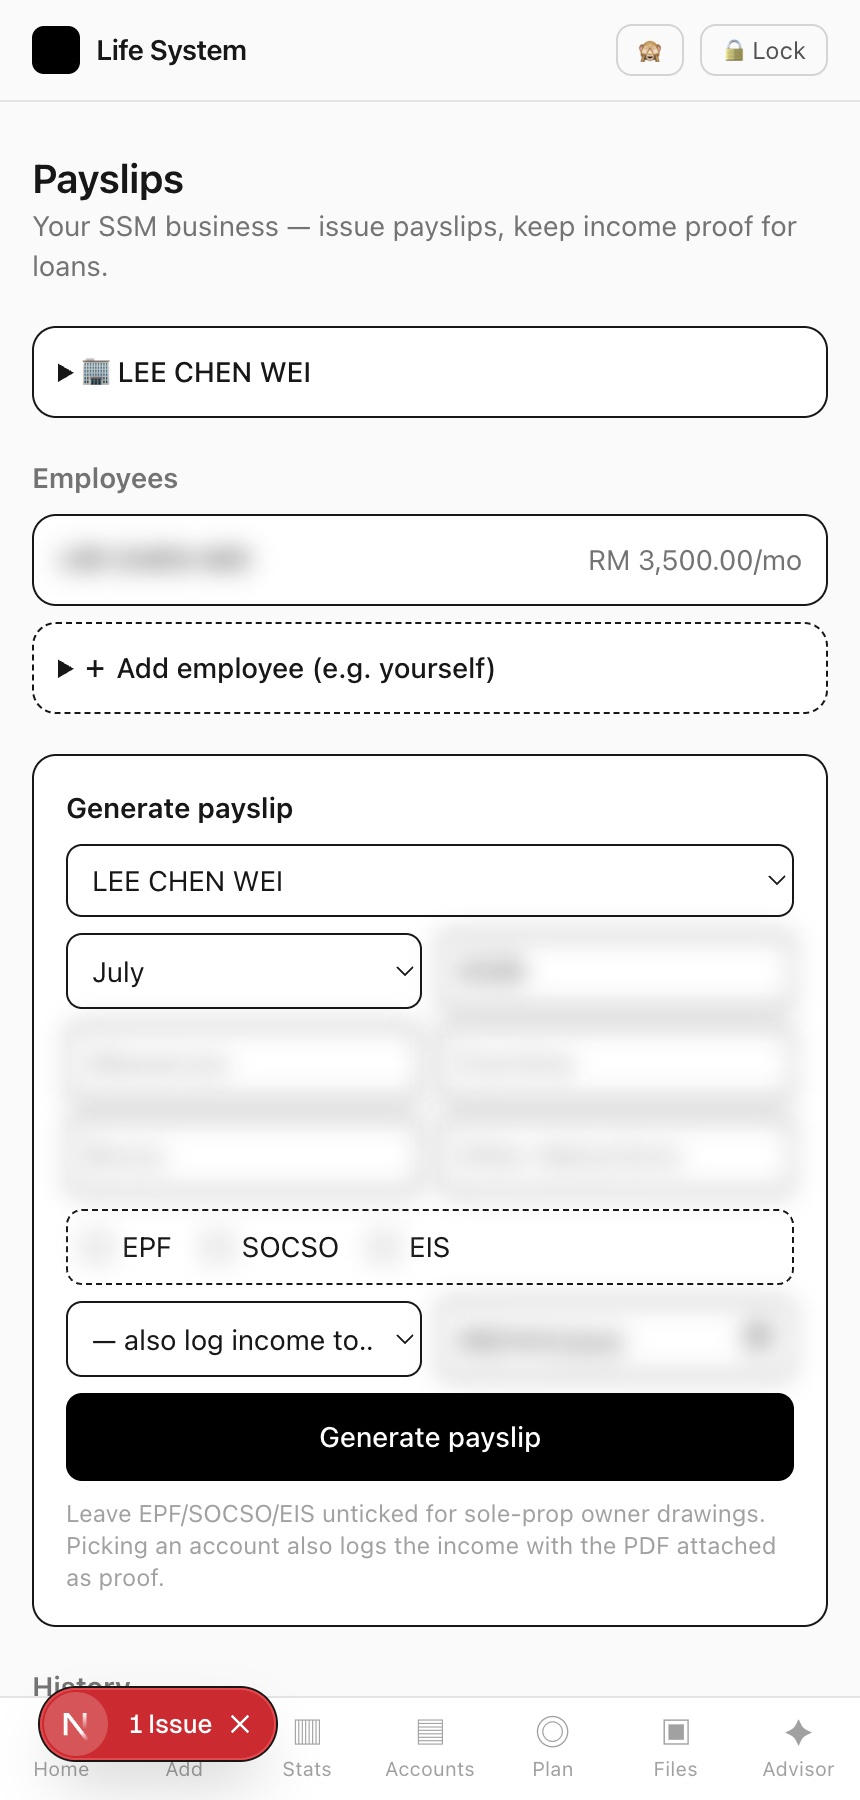
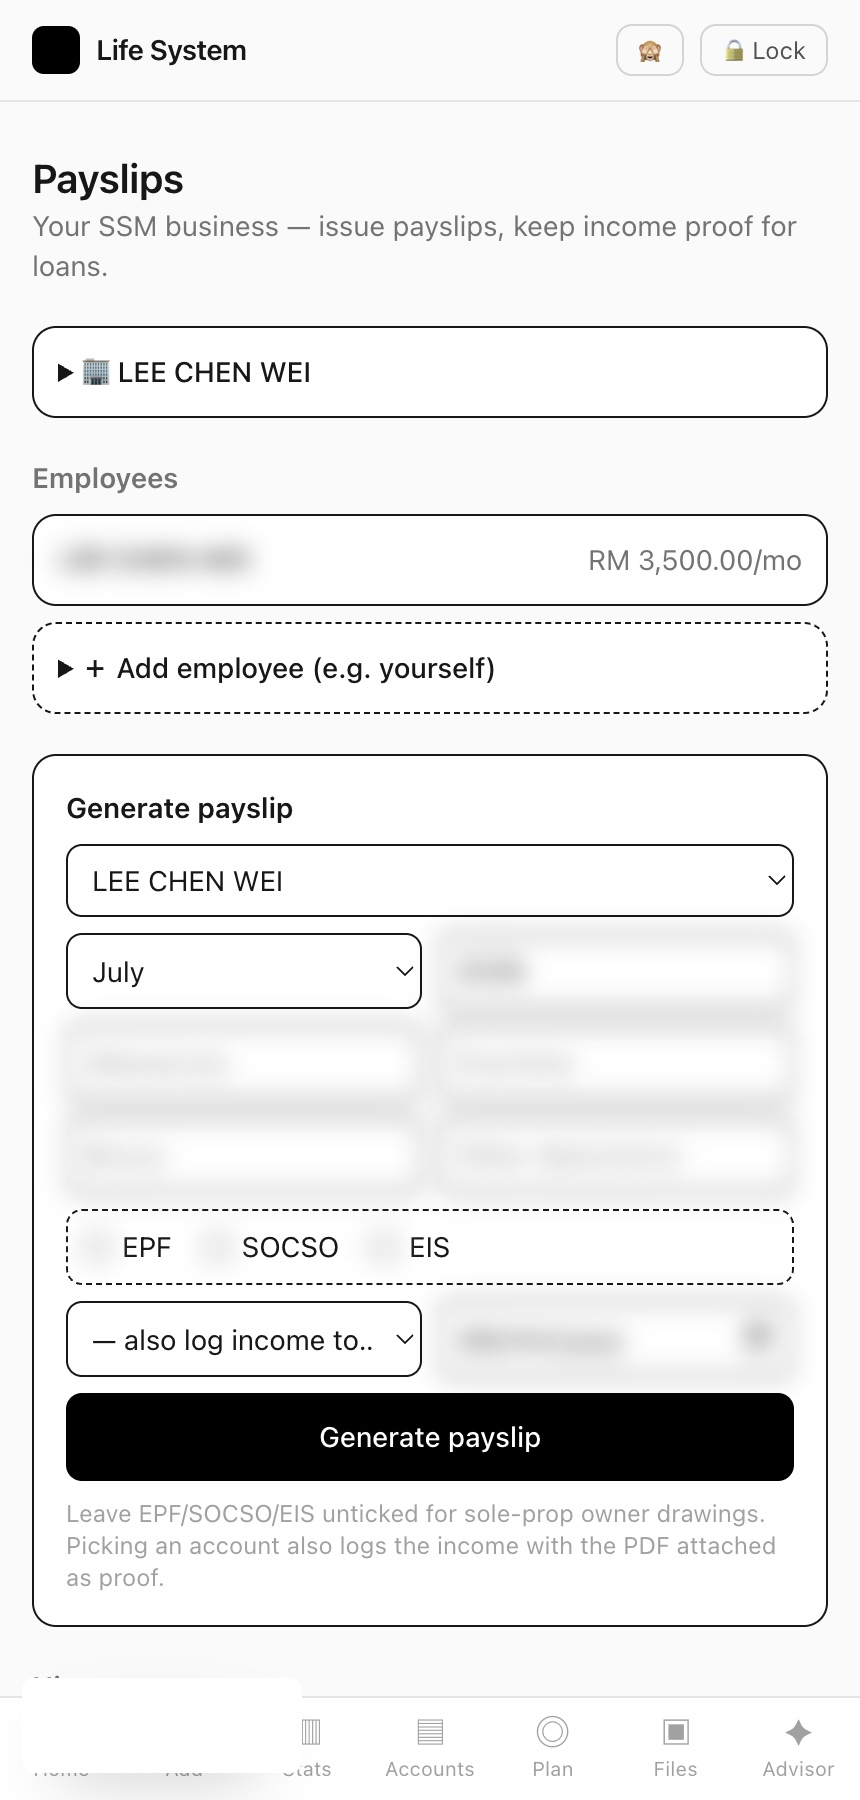
fix: thorough redaction on WA/Life shots, WhatsApp relay proof for Inside Assistant

Changed region(s): [[0.0302, 0.9333, 0.3326, 0.9956]]

diff --git a/my-personal-website/src/data/projects.ts b/my-personal-website/src/data/projects.ts
@@ -234,7 +234,10 @@ export const projects: Project[] = [
     ],
     category: "ai",
     type: "company",
-    media: [{ src: "/media/inside-assistant.jpg", alt: "Inside Assistant web app — chat sessions, knowledge, team and observability sections" }, { src: "/media/diagram-assistant.jpg", alt: "Architecture — WhatsApp/Web/Lark channels, unified gateway, agent core with pgvector identity-scoped memory" }],
+    media: [
+      { src: "/media/ia-wa-relay.jpg", alt: "Inside Assistant relaying updates between teammates over WhatsApp — forwarding a staging release note and returning the reply '— via Inside Assistant' (names and client systems redacted)" },
+      { src: "/media/diagram-assistant.jpg", alt: "Architecture — WhatsApp/Web/Lark channels, unified gateway, agent core with pgvector identity-scoped memory" },
+    ],
     metrics: ["8\u201310 daily internal users", "3 channels"],
     icon: "Bot",
   },
